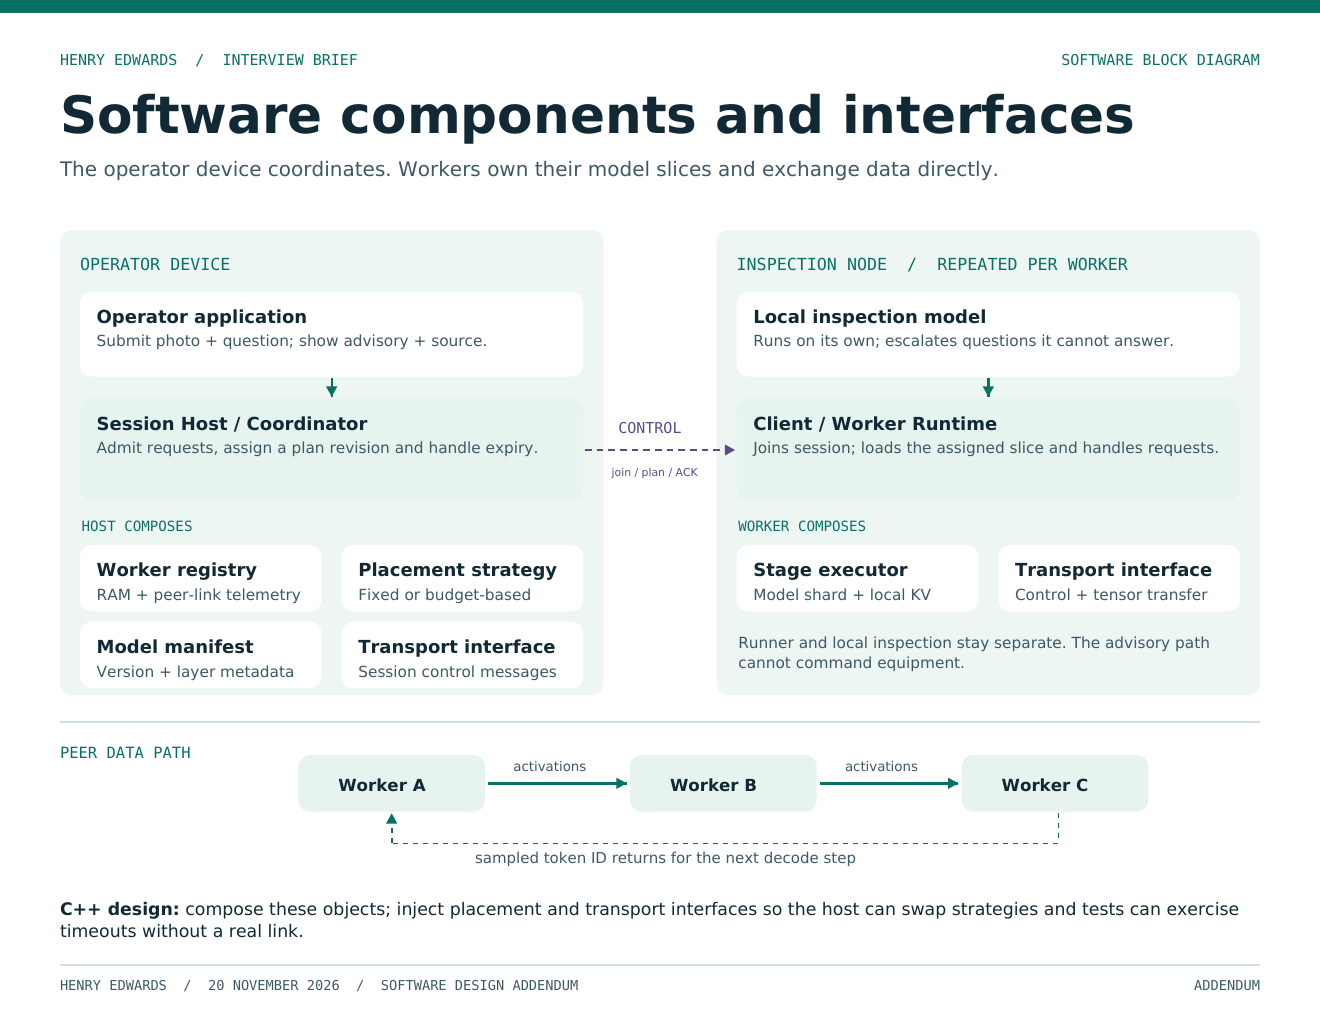
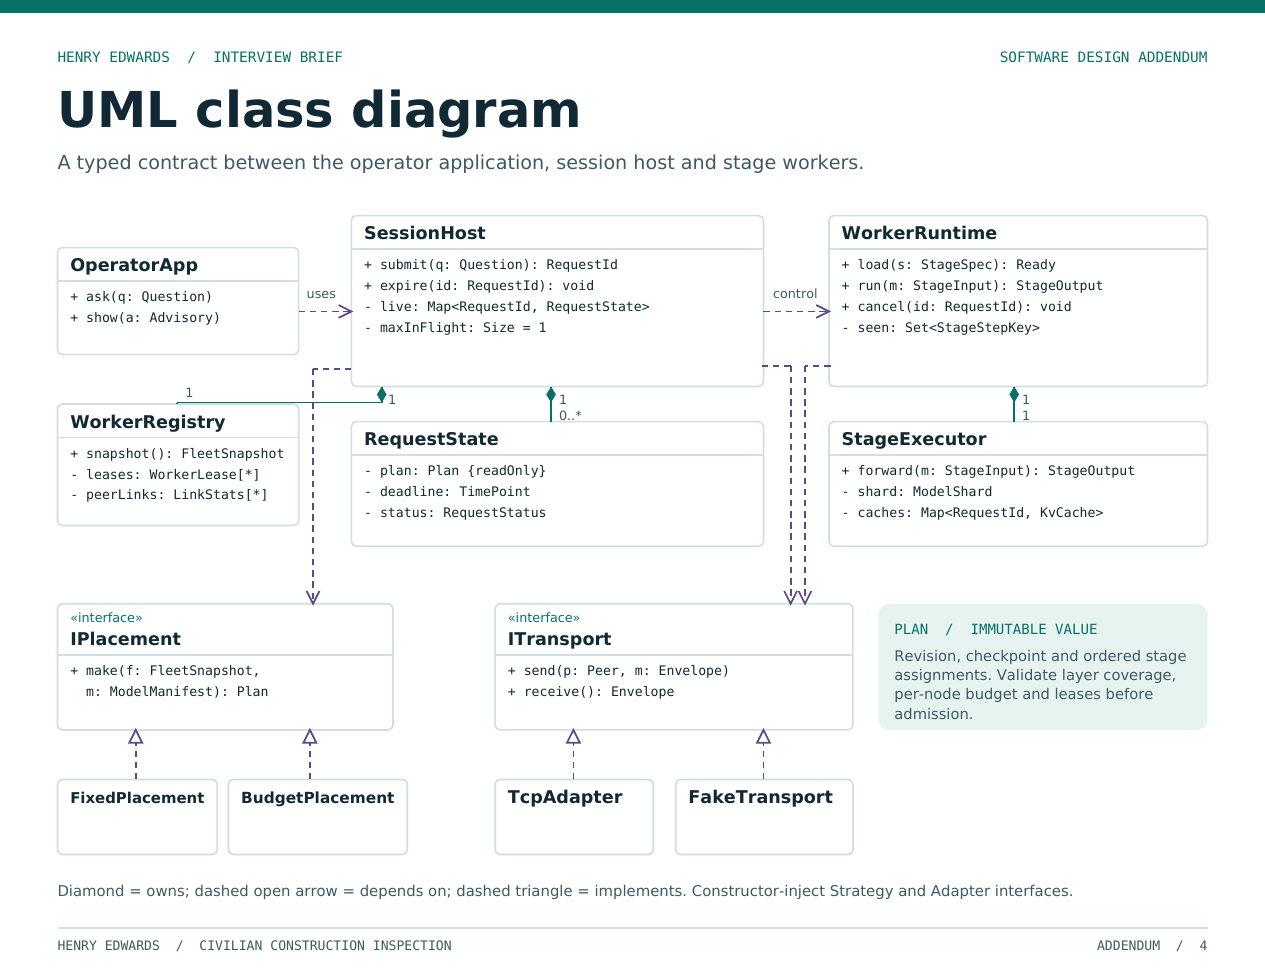
Document proposed VLM software with class and sequence UML

diff --git a/projects/edge-vlm-pipeline.html b/projects/edge-vlm-pipeline.html
@@ -45,7 +45,10 @@ figure{margin:1.2rem 0 0}figure img{display:block;width:100%;height:auto;border:
 <p>The chosen token returns to the first worker for each autoregressive decode step. The model weights stay on their assigned devices; the attention state stays with its corresponding layers. Independent requests can occupy different stages at the same time, but the stages remain sequential for each token. Throughput may improve with overlap; single-request latency need not.</p>
 <p class="note"><a href="https://arxiv.org/abs/2609.34045">Kafila: Serving Large Language Models on a Trusted Set of Heterogeneous Commodity Machines</a> inspired the capacity-aware placement idea. Its planner jointly weighs memory, compute characteristics and reachability. Its reported results are for commodity-machine LLM fleets, not this VLM or aircraft links.</p>
 <figure><a href="../assets/images/edge-vlm-implementation-walkthrough.png"><img src="../assets/images/edge-vlm-implementation-walkthrough.png" alt="Implementation walkthrough showing two local software processes sharing one GPU, then a separate proposed three-drone inspection architecture." loading="lazy"></a><figcaption>Measured laptop prototype and proposed operating concept. Select the diagram to enlarge it.</figcaption></figure>
-<figure><a href="../assets/images/edge-vlm-software-block-diagram.png"><img src="../assets/images/edge-vlm-software-block-diagram.png" alt="Proposed software blocks: local vision-language model and compute monitor on each worker, elected leader and placement scheduler, and staged larger-model runtime. Separate flight-control lane." loading="lazy"></a><figcaption>Proposed software component diagram. Select to enlarge.</figcaption></figure>
+<h3 id="software-design">Proposed software design</h3>
+<p>The class diagram shows the software ownership boundaries and interfaces. The sequence diagram shows how those objects cooperate during an inspection request. These are design proposals, not evidence of an onboard deployment.</p>
+<figure><a href="../assets/images/edge-vlm-software-block-diagram.png" aria-label="Open the UML class diagram at full size"><img src="../assets/images/edge-vlm-software-block-diagram.png" alt="UML class diagram of the proposed inspection inference software, including the control and inference responsibilities." loading="lazy"></a><figcaption>UML class diagram: software responsibilities, interfaces and associations. Select to enlarge.</figcaption></figure>
+<figure><a href="../assets/images/edge-vlm-uml-sequence.png" aria-label="Open the UML sequence diagram at full size"><img src="../assets/images/edge-vlm-uml-sequence.png" alt="UML sequence diagram of messages exchanged during an inspection request and the response when the distributed inference attempt fails." loading="lazy"></a><figcaption>UML sequence diagram: request flow, the pipeline handoff and failure handling. Select to enlarge.</figcaption></figure>
 </section>
 <section aria-labelledby="proofs">
 <h2 id="proofs">Two different prototype checks</h2>
